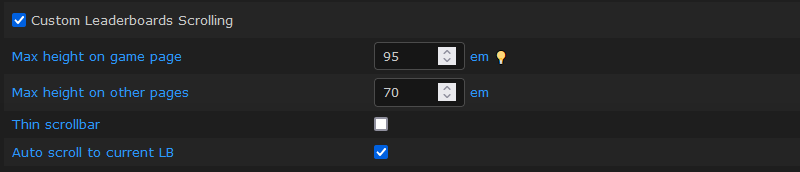
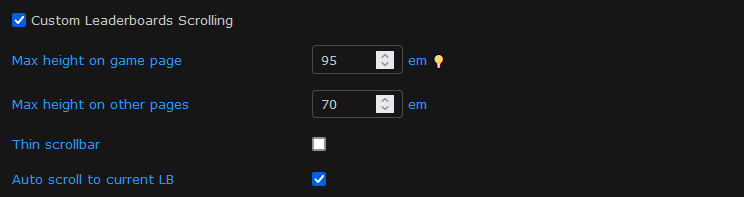
CustomCheevosList, CustomizeProfile, EnhancedHubSort, GameResourceSearch: Fix settings page for RAWeb 6.15, updates doc screenshots

diff --git a/RA_GameResourceSearch.user.js b/RA_GameResourceSearch.user.js
@@ -1,12 +1,12 @@
 // ==UserScript==
 // @name         RA_GameResourceSearch
 // @namespace    RA
-// @version      0.2.4
+// @version      0.2.5
 // @description  Adds (customizable) links to game pages to search for resources on the game.
 // @author       Mindhral
 // @homepage     https://github.com/Mindhral/RA_userscripts
 // @match        https://retroachievements.org/game/*
-// @match        https://retroachievements.org/controlpanel.php*
+// @match        https://retroachievements.org/settings*
 // @match        https://retroachievements.org/setRequestList.php*
 // @exclude      https://retroachievements.org/game/*/*
 // @run-at       document-start
@@ -192,82 +192,82 @@ function setVisible(element, visible) {
     element.classList[method]('hidden');
 }
 
-const settingsDivHtml = `<div class="component">
-	<style>
-		.clickable { cursor: pointer; user-select: none; vertical-align: sub; font-size: 1.5em; }
-	</style>
-	<h4>Game Resource Search</h4>
-	<table class="table-highlight">
-		<tbody>
-			<tr>
-				<td><div class="flex">
-					<select id="grSearchSelect"></select>
-                    <span id="grSearchAdd" style="cursor: pointer; margin: 0.2em 0 0 0.5em" title="new empty search">
[1 lines of base64/hex data omitted]
-                    </span>
-                    <span id="grSearchClone" style="cursor: pointer; margin: 0.2em 0 0 0.5em" title="new search based on the current one">
[1 lines of base64/hex data omitted]
-                    </span>
-				</div></td>
-				<td><label><input id="grSearchActive" type="checkbox"> active</label></td>
-				<td>
-					<div id="grSearchDown" class="icon clickable" title="move search down in the list">🔽</div><div id="grSearchUp" class="icon clickable" title="move search up in the list">🔼</div>
-					<div id="grSearchSave" class="icon clickable" title="save current Search">💾</div>
-					<div id="grSearchReset" class="icon clickable" title="reset search to default" style="font-size: 2em">↻</div>
-					<div id="grSearchDelete" class="icon clickable hidden" title="delete search" style="font-size: 2em">🗑</div>
-				</td>
-			</tr>
-			<tr>
-				<td>Displayed name</td>
-				<td colspan="2"><input id="grSearchLabel" type="text" size="25" maxlength="25" placeholder="label"></td>
-			</tr>
-			<tr>
-				<td>Url pattern</td>
-				<td colspan="2">
-					<input id="grSearchURL" type="text" style="width: 95%;" placeholder="url">
-					<div class="icon" title="placeholders: \${gameName}, \${consoleName}" style="cursor: help;">💡</div>
-				</td>
-			</tr>
-			<tr>
-				<td>Console names</td>
-				<td>
-	                <select id="grSearchConsoleSelect"></select>
-                	<div class="icon" title="Load &quot;Most Requested&quot; page to refresh list" style="cursor: help;">💡</div>
-                </td>
-				<td>
-					<input id="grSearchConsoleName" type="text" placeholder="console name">
-					<div class="icon" title="Leave empty to keep default name" style="cursor: help;">💡</div>
-				</td>
-			</tr>
-			<tr>
-				<td>Console filter</td>
-				<td>
-					<label><input id="grSearchConsoleIncl" type="radio" name="grSearchConsoleRadio" checked=""> include</label>
-					<label><input id="grSearchConsoleExcl" type="radio" name="grSearchConsoleRadio"> exclude</label>
-				</td>
-				<td>
-					<input id="grSearchConsoleIds" type="text" placeholder="console ids">
-					<div class="icon" title="consoles ids separated by commas" style="cursor: help;">💡</div>
-				</td>
-			</tr>
-			<tr>
-				<td>Tag filter</td>
-				<td>
-					<label><input id="grSearchTagsIncl" type="radio" name="grSearchTagsRadio" checked=""> include</label>
-					<label><input id="grSearchTagsExcl" type="radio" name="grSearchTagsRadio"> exclude</label>
-				</td>
-				<td>
-					<input id="grSearchTagsList" type="text" placeholder="tags">
-					<div class="icon" title="comma separated list of tags, case insensitive, 'none' for games without tags" style="cursor: help;">💡</div>
-				</td>
-			</tr>
-		</tbody>
-	</table>
+const settingsDivHtml = `<div class="text-card-foreground rounded-lg border border-embed-highlight bg-embed shadow-sm w-full">
+  <style>
+    .clickable { cursor: pointer; user-select: none; vertical-align: sub; font-size: 1.5em; }
+  </style>
+  <div class="flex flex-col space-y-1.5 p-6 pb-4">
+    <h4 class="mb-0 border-b-0 text-2xl font-semibold leading-none tracking-tight">Game Resource Search</h4>
+  </div>
+  <form><div class="p-6 pt-0"><table><tbody class="[&>tr>td]:!px-0 [&>tr>td]:py-2 [&>tr>th]:!px-0 [&>tr]:!bg-embed">
+    <tr>
+      <td><div class="flex">
+        <select id="grSearchSelect"></select>
+        <span id="grSearchAdd" style="cursor: pointer; margin: 0.2em 0 0 0.5em" title="new empty search">
[1 lines of base64/hex data omitted]
+        </span>
+        <span id="grSearchClone" style="cursor: pointer; margin: 0.2em 0 0 0.5em" title="new search based on the current one">
[1 lines of base64/hex data omitted]
+        </span>
+      </div></td>
+      <td><label><input id="grSearchActive" type="checkbox"> active</label></td>
+      <td>
+        <div id="grSearchDown" class="icon clickable" title="move search down in the list">🔽</div><div id="grSearchUp" class="icon clickable" title="move search up in the list">🔼</div>
+        <div id="grSearchSave" class="icon clickable" title="save current Search">💾</div>
+        <div id="grSearchReset" class="icon clickable" title="reset search to default" style="font-size: 2em">↻</div>
+        <div id="grSearchDelete" class="icon clickable hidden" title="delete search" style="font-size: 2em">🗑</div>
+      </td>
+    </tr>
+    <tr>
+      <th scope="row">Displayed name</th>
+      <td colspan="2"><input id="grSearchLabel" type="text" size="25" maxlength="25" placeholder="label"></td>
+    </tr>
+    <tr>
+      <th scope="row">Url pattern</th>
+      <td colspan="2">
+        <input id="grSearchURL" type="text" style="width: 95%;" placeholder="url">
+        <div class="icon" title="placeholders: \${gameName}, \${consoleName}" style="cursor: help;">💡</div>
+      </td>
+    </tr>
+    <tr>
+      <th scope="row">Console names</th>
+      <td>
+        <select id="grSearchConsoleSelect"></select>
+        <div class="icon" title="Load &quot;Most Requested&quot; page to refresh list" style="cursor: help;">💡</div>
+      </td>
+      <td>
+        <input id="grSearchConsoleName" type="text" placeholder="console name">
+        <div class="icon" title="Leave empty to keep default name" style="cursor: help;">💡</div>
+      </td>
+    </tr>
+    <tr>
+      <th scope="row">Console filter</th>
+      <td>
+        <label><input id="grSearchConsoleIncl" type="radio" name="grSearchConsoleRadio" checked=""> include</label>
+        <label><input id="grSearchConsoleExcl" type="radio" name="grSearchConsoleRadio"> exclude</label>
+      </td>
+      <td>
+        <input id="grSearchConsoleIds" type="text" placeholder="console ids">
+        <div class="icon" title="consoles ids separated by commas" style="cursor: help;">💡</div>
+      </td>
+    </tr>
+    <tr>
+      <th scope="row">Tag filter</th>
+      <td>
+        <label><input id="grSearchTagsIncl" type="radio" name="grSearchTagsRadio" checked=""> include</label>
+        <label><input id="grSearchTagsExcl" type="radio" name="grSearchTagsRadio"> exclude</label>
+      </td>
+      <td>
+        <input id="grSearchTagsList" type="text" placeholder="tags">
+        <div class="icon" title="comma separated list of tags, case insensitive, 'none' for games without tags" style="cursor: help;">💡</div>
+      </td>
+    </tr>
+  </tbody></table></div></form>
 </div>`
 
 function settingsPage() {
-    const xpathRes = document.evaluate("//div[h3[text()='Settings']]", document, null, XPathResult.ORDERED_NODE_ITERATOR_TYPE, null);
-    const settingsDiv = xpathRes.iterateNext();
+    const xpathRes = document.evaluate("//div[h3[text()='Preferences']]", document, null, XPathResult.ORDERED_NODE_ITERATOR_TYPE, null);
+    const settingsDiv = xpathRes.iterateNext()?.parentElement;
     if (settingsDiv == null) return;
 
     // HTML creation
@@ -544,5 +544,5 @@ function gamePage() {
 }
 
 const urlPathname = window.location.pathname;
-const mainMethod = urlPathname.startsWith('/controlpanel.php') ? settingsPage : urlPathname.startsWith('/setRequestList.php') ? setRequestPage : gamePage;
+const mainMethod = urlPathname.startsWith('/settings') ? settingsPage : urlPathname.startsWith('/setRequestList.php') ? setRequestPage : gamePage;
 document.addEventListener("DOMContentLoaded", mainMethod);

diff --git a/RA_CustomizeProfile.user.js b/RA_CustomizeProfile.user.js
@@ -1,12 +1,12 @@
 // ==UserScript==
 // @name         RA_CustomizeProfile
 // @namespace    RA
-// @version      1.4
+// @version      1.4.1
 // @description  Provides a set of options to customize the profile pages
 // @author       Mindhral
 // @homepage     https://github.com/Mindhral/RA_userscripts
 // @match        https://retroachievements.org/user/*
-// @match        https://retroachievements.org/controlpanel.php*
+// @match        https://retroachievements.org/settings*
 // @exclude      https://retroachievements.org/user/*/*
 // @run-at       document-start
 // @icon         https://static.retroachievements.org/assets/images/favicon.webp
@@ -64,9 +64,12 @@ function basicSettingsPage(chekboxId, settingsKey, settings) {
     }
 }
 
-const settingsHtml = `<div class="component">
-  <h4>Profile page customization</h4>
-  <table class="table-highlight"><tbody>
+const settingsHtml = `<div class="text-card-foreground rounded-lg border border-embed-highlight bg-embed shadow-sm w-full">
+  <div class="flex flex-col space-y-1.5 p-6 pb-4">
+    <h4 class="mb-0 border-b-0 text-2xl font-semibold leading-none tracking-tight">Profile page customization</h4>
+  </div>
+  <form><div class="p-6 pt-0">
+  <table><tbody class="[&>tr>td]:!px-0 [&>tr>td]:py-2 [&>tr>th]:!px-0 [&>tr]:!bg-embed">
     <tr><th colspan="2"><label><input id="hideMasterProgrActive" type="checkbox"> Hide Mastered Progression Option</label></th></tr>
     <tr><th colspan="2"><label><input id="scrollAwardsActive" type="checkbox"> Scrollable Game Awards</label></th></tr>
     <tr><td>Minimum number of games for showing the scroll bar</td><td><input id="scrollAwardsMinGames" type="number" style="width: 7em;"></td></tr>
@@ -75,7 +78,7 @@ const settingsHtml = `<div class="component">
     <tr><th colspan="2"><label><input id="highlightAwardsActive" type="checkbox"> Highlight Awards Checkboxes</label></th></tr>
     <tr><th colspan="2"><label><input id="progressLinkActive" type="checkbox"> Link Completion Progress to Compare Page</label></th></tr>
   </tbody></table>
-  <table class="table-highlight"><tbody>
+  <table><tbody class="[&>tr>td]:!px-0 [&>tr>td]:py-2 [&>tr>th]:!px-0 [&>tr]:!bg-embed">
     <tr><th colspan="2"><label><input id="markUnearnedActive" type="checkbox"> Mark Unearned Badges</label></th></tr>
     <tr><td>Only on own profile</td><td><input id="unEarnedOwnProfile" type="checkbox"></td></tr>
     <tr>
@@ -94,6 +97,7 @@ const settingsHtml = `<div class="component">
       </td>
     </tr>
   </tbody></table>
+  </div></form>
 </div>`;
 
 const HideMasteredProgress = (() => {
@@ -444,8 +448,8 @@ function profilePage() {
 }
 
 function settingsPage() {
-    const xpathRes = document.evaluate("//div[h3[text()='Settings']]", document, null, XPathResult.ORDERED_NODE_ITERATOR_TYPE, null);
-    const settingsDiv = xpathRes.iterateNext();
+    const xpathRes = document.evaluate("//div[h3[text()='Preferences']]", document, null, XPathResult.ORDERED_NODE_ITERATOR_TYPE, null);
+    const settingsDiv = xpathRes.iterateNext()?.parentElement;
     if (!settingsDiv) return;
     const mainDiv = document.createElement('div');
     settingsDiv.insertAdjacentElement('afterend', mainDiv);
@@ -459,5 +463,5 @@ function settingsPage() {
 }
 
 const urlPathname = window.location.pathname;
-const mainMethod = urlPathname.startsWith('/controlpanel.php') ? settingsPage : profilePage;
+const mainMethod = urlPathname.startsWith('/settings') ? settingsPage : profilePage;
 document.addEventListener("DOMContentLoaded", mainMethod);

diff --git a/RA_CustomCheevosList.user.js b/RA_CustomCheevosList.user.js
@@ -9,7 +9,7 @@
 // @match        https://retroachievements.org/achievement/*
 // @match        https://retroachievements.org/leaderboardinfo.php*
 // @match        https://retroachievements.org/user/*/game/*/compare*
-// @match        https://retroachievements.org/controlpanel.php*
+// @match        https://retroachievements.org/settings*
 // @exclude      https://retroachievements.org/game/*/*
 // @run-at       document-start
 // @icon         https://static.retroachievements.org/assets/images/favicon.webp
@@ -142,11 +142,13 @@ const withGameExtended = (() => {
     };
 })();
 
-const settingsHtml = `<div class="component">
-  <h4>Achievements list customization</h4>
-  <table class="table-highlight">
+const settingsHtml = `<div class="text-card-foreground rounded-lg border border-embed-highlight bg-embed shadow-sm w-full">
+  <div class="flex flex-col space-y-1.5 p-6 pb-4">
+    <h4 class="mb-0 border-b-0 text-2xl font-semibold leading-none tracking-tight">Achievements list customization</h4>
+  </div>
+  <form><div class="p-6 pt-0"><table>
   <colgroup><col style="width: 300px;"></col></colgroup>
-  <tbody>
+  <tbody class="[&>tr>td]:!px-0 [&>tr>td]:py-2 [&>tr>th]:!px-0 [&>tr]:!bg-embed">
     <tr><th colspan="2">Filtering and sorting</th></tr>
     <tr>
       <td><label for="enhancedCheevosSortActive">Enhanced Sort Options</label></td>
@@ -237,7 +239,7 @@ const settingsHtml = `<div class="component">
       <td><input id="scrollableLBsAutoScroll" type="checkbox"></td>
     </tr>
   </tbody>
-  </table>
+  </table></div></form>
 </div>`;
 
 const EnhancedCheevosSort = (() => {
@@ -980,15 +982,15 @@ const LinkHighScore2Compare = (() => {
         if (!currentUser) return;
         const gameId = getGameId();
 
-        const highscoresRows = getElementsByXpath(document, '//h2[text()="Most Points Earned"]/..//tbody/tr');
+        const highscoresRows = getElementsByXpath(document, '//h2[text()="Most Points Earned" or text()="Latest Masters"]/..//tbody/tr');
         highscoresRows.forEach(tr => {
-            const scoreCell = tr.children.item(2);
-            const scorePara = scoreCell.querySelector('p');
+            const scorePara = tr.children.item(2).querySelector('p,span');
             // creating the link
             const userId = tr.querySelector('a').href.split('/').at(-1);
             if (userId === currentUser) return;
             const newLink = document.createElement('a');
             newLink.href = `/user/${userId}/game/${gameId}/compare`;
+            newLink.title = 'Compare';
             scorePara.replaceWith(newLink);
             newLink.append(scorePara);
         });
@@ -1329,8 +1331,8 @@ const Pages = {
     user: () => {
         GameCompareFilter.comparePage();
     },
-    controlpanel: () => {
-        const settingsDiv = getElementByXpath(document, '//div[h3[text()="Settings"]]');
+    settings: () => {
+        const settingsDiv = getElementByXpath(document, '//div[h3[text()="Preferences"]]')?.parentElement;
         if (!settingsDiv) return;
         const mainDiv = document.createElement('div');
         settingsDiv.insertAdjacentElement('afterend', mainDiv);

diff --git a/RA_EnhancedHubSort.user.js b/RA_EnhancedHubSort.user.js
@@ -8,7 +8,7 @@
 // @match        https://retroachievements.org/game/*
 // @match        https://retroachievements.org/system/*/games*
 // @match        https://retroachievements.org/user/*/developer/sets*
-// @match        https://retroachievements.org/controlpanel.php*
+// @match        https://retroachievements.org/settings*
 // @exclude      https://retroachievements.org/game/*/*
 // @run-at       document-start
 // @icon         https://static.retroachievements.org/assets/images/favicon.webp
@@ -652,17 +652,19 @@ function customize() {
     [savePageLink, saveDefaultLink, resetFiltersLink].forEach(link => link.addEventListener('click', ackIconClick));
 }
 
-const settingsHtml = `<div class="component">
-  <h4>Enhanced Hub Sort</h4>
-  <table class="table-highlight"><tbody>
+const settingsHtml = `<div class="text-card-foreground rounded-lg border border-embed-highlight bg-embed shadow-sm w-full">
+  <div class="flex flex-col space-y-1.5 p-6 pb-4">
+    <h4 class="mb-0 border-b-0 text-2xl font-semibold leading-none tracking-tight">Enhanced Hub Sort</h4>
+  </div>
+  <form><div class="p-6 pt-0"><table><tbody class="[&>tr>td]:!px-0 [&>tr>td]:py-2 [&>tr>th]:!px-0 [&>tr]:!bg-embed">
     <tr>
-      <td>Reset saved filters</td>
+      <th scope="row">Reset saved filters</th>
       <td>
         <button id="resetHubFilters" class="btn">Hubs</button> <button id="resetConsoleFilters" class="btn">Consoles</button> <button id="resetDevFilters" class="btn">Developers</button>
       </td>
     </tr>
     <tr>
-      <td>Console groups</td>
+      <th scope="row">Console groups</th>
       <td>
         <div>
           <select id="hubConsoleGroups" style="min-width: 10em;"></select>
@@ -680,12 +682,12 @@ const settingsHtml = `<div class="component">
         </div>
       </td>
     </tr>
-  </tbody></table>
+  </tbody></table></div></form>
 </div>`;
 
 function settingsPage() {
     // HTML creation
-    const settingsDiv = getElementByXpath(document, '//div[h3[text()="Settings"]]');
+    const settingsDiv = getElementByXpath(document, '//div[h3[text()="Preferences"]]')?.parentElement;
     if (!settingsDiv) return;
     const mainDiv = document.createElement('div');
     settingsDiv.insertAdjacentElement('afterend', mainDiv);
@@ -816,7 +818,7 @@ function settingsPage() {
 }
 
 document.addEventListener("DOMContentLoaded", () => {
-    if (pageName == 'controlpanel.php') {
+    if (pageName == 'settings') {
         settingsPage();
         return;
     }
